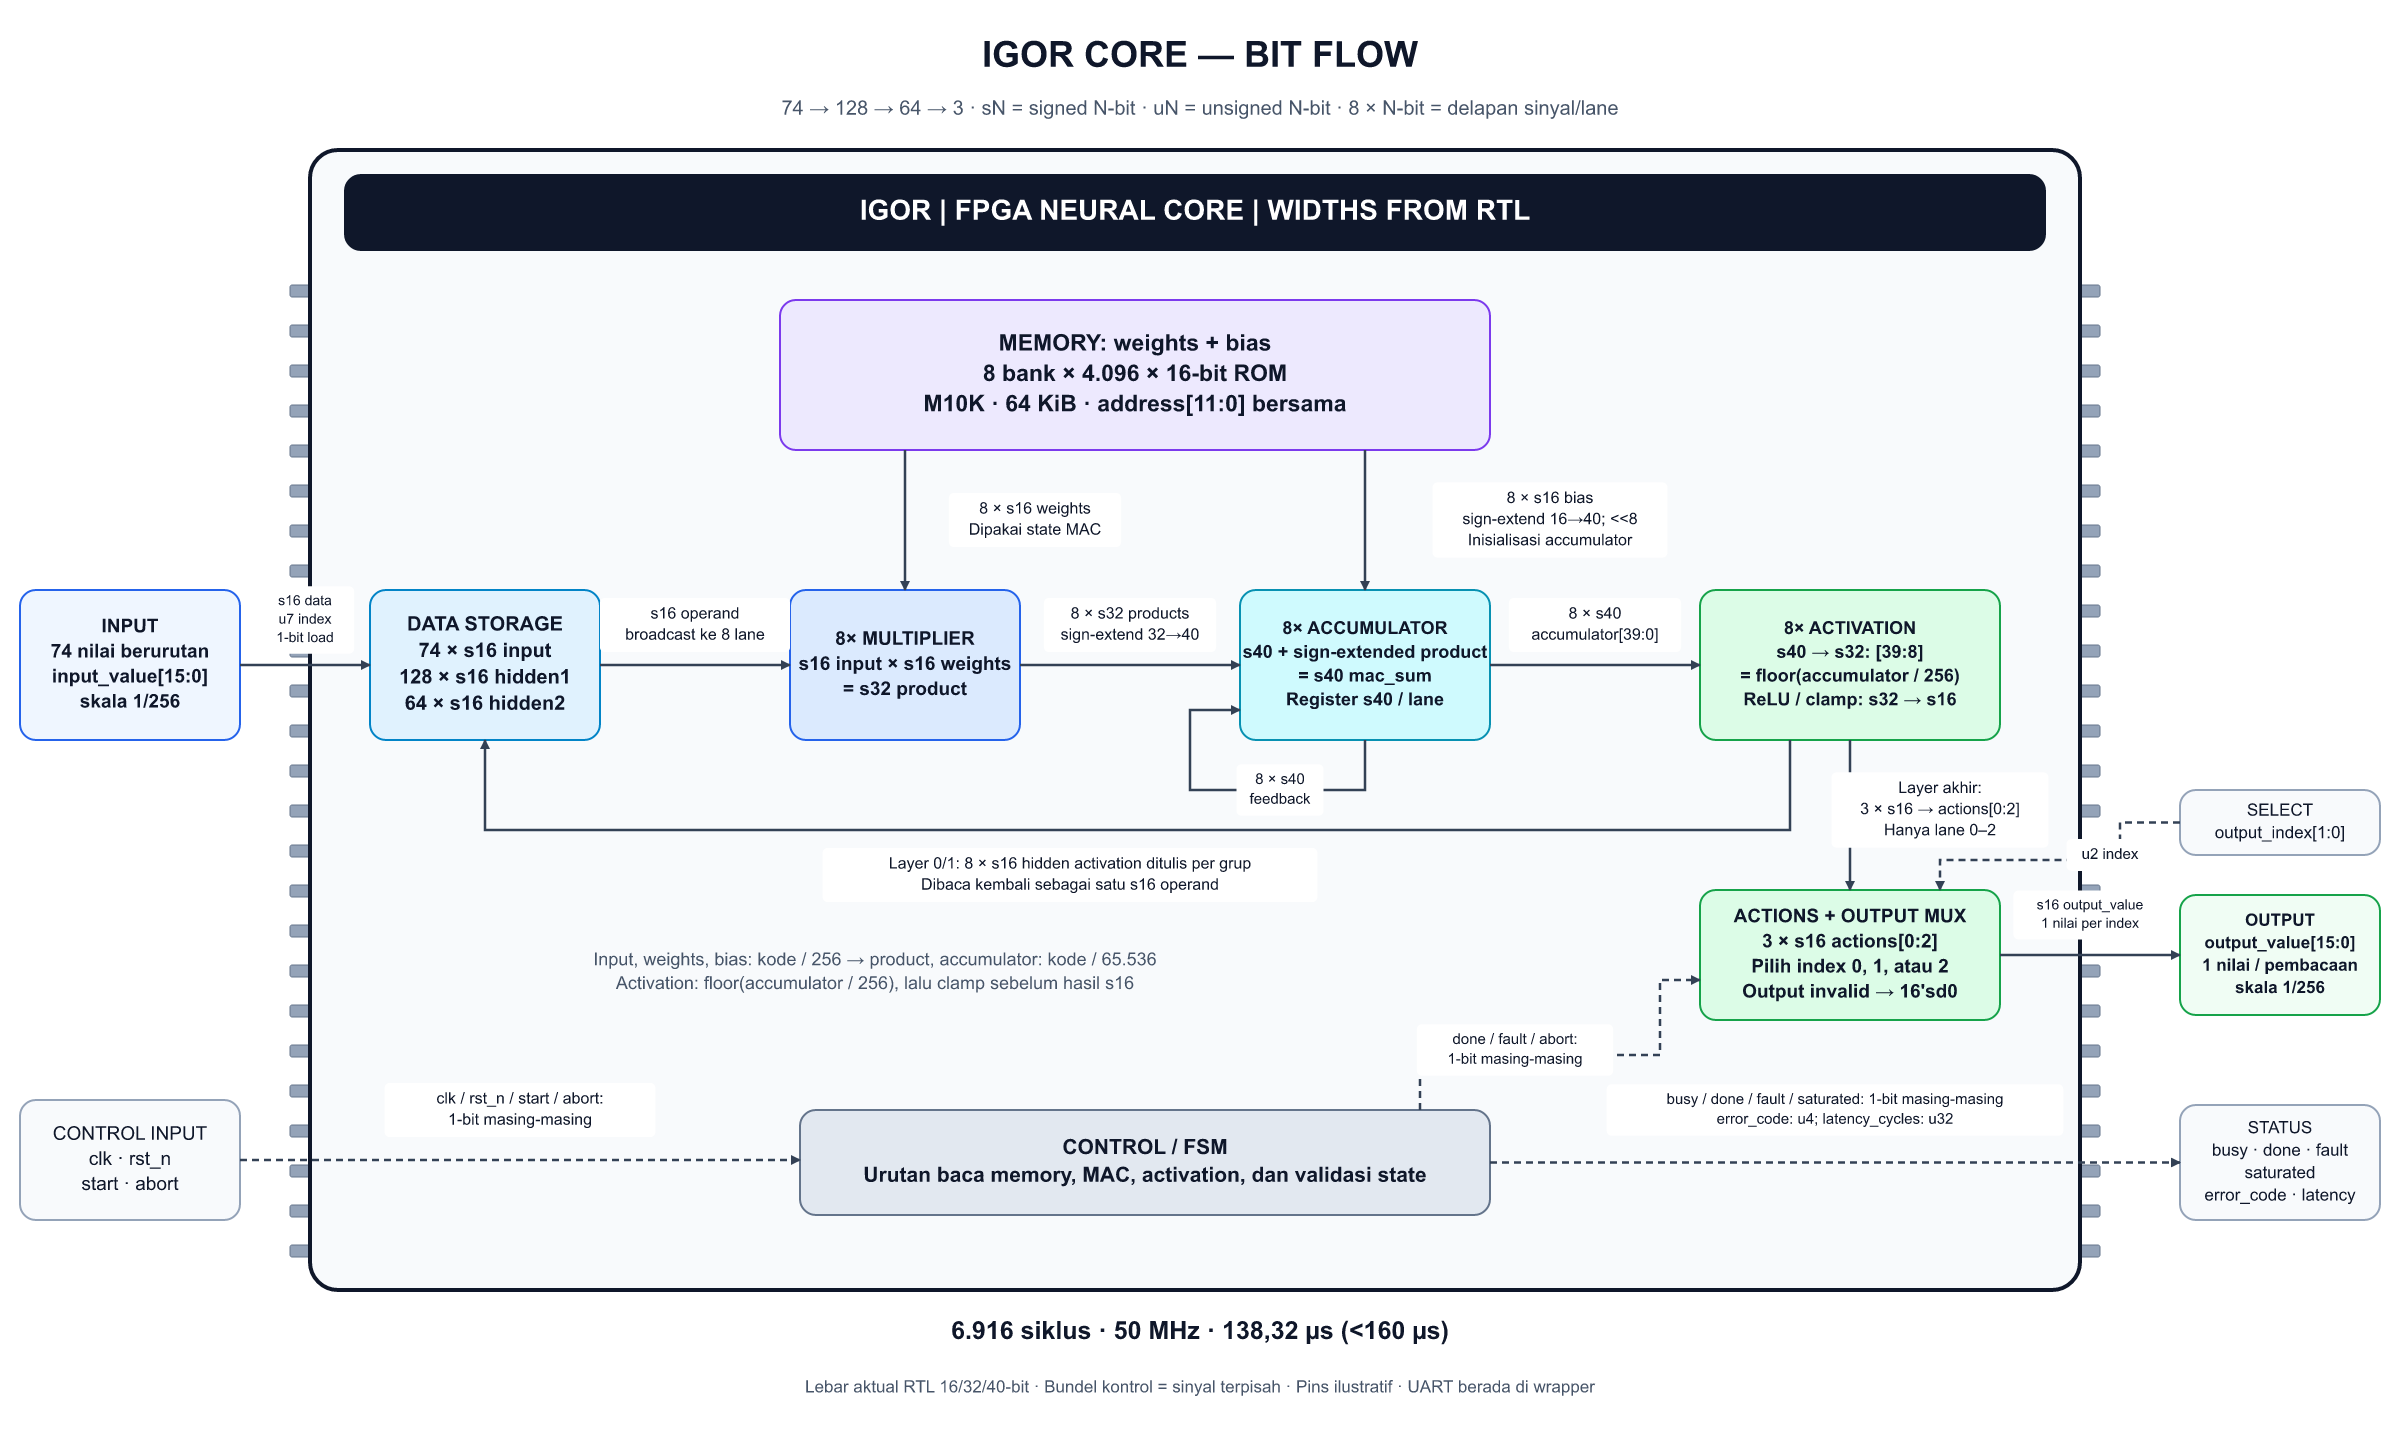
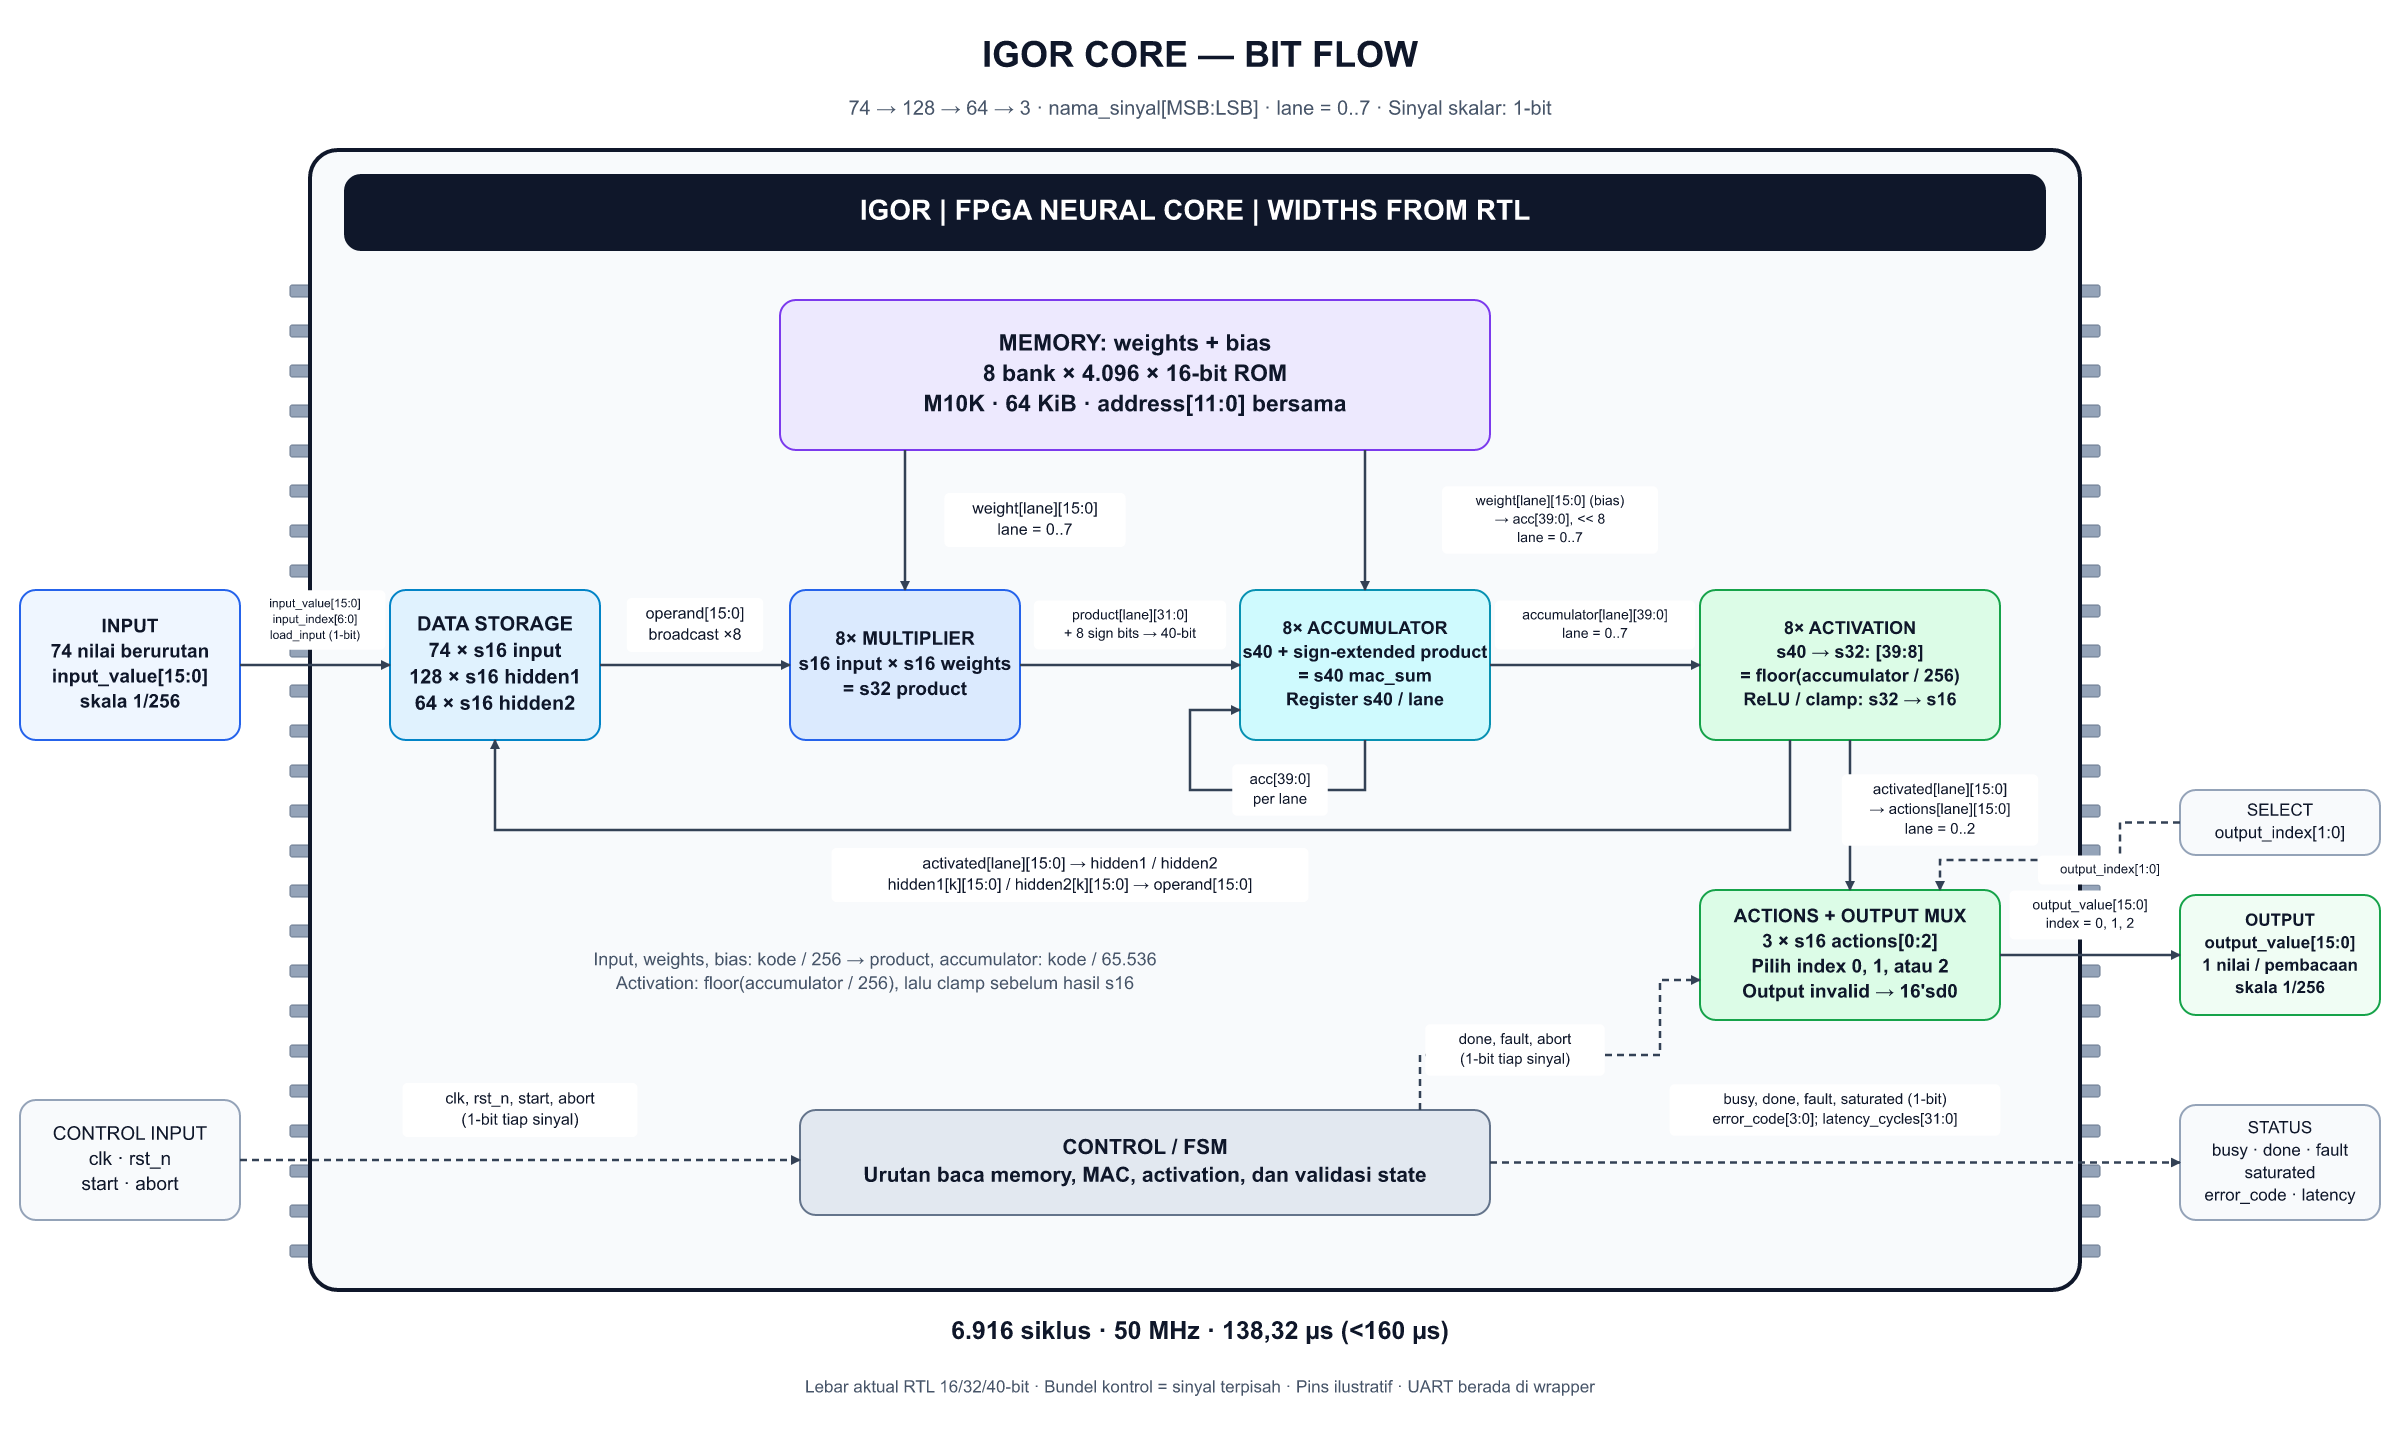
docs: annotate core arrows with exact RTL signal bit ranges

diff --git a/fpga/scripts/render_igor_core_drawio.py b/fpga/scripts/render_igor_core_drawio.py
@@ -86,7 +86,7 @@ def edge(key,source,target,points,exit_xy,entry_xy,caption,label_center,dashed=F
 
 
 label('title',400,25,1600,65,'IGOR CORE — BIT FLOW',36,'#0f172a',True)
-label('subtitle',300,92,1800,35,'74 → 128 → 64 → 3  ·  sN = signed N-bit  ·  uN = unsigned N-bit  ·  8 × N-bit = delapan sinyal/lane',20)
+label('subtitle',300,92,1800,35,'74 → 128 → 64 → 3  ·  nama_sinyal[MSB:LSB]  ·  lane = 0..7  ·  Sinyal skalar: 1-bit',20)
 
 # Decorative package pins, explicitly separate from functional ports.
 for side,x in [('left',290),('right',2080)]:
@@ -96,7 +96,7 @@ box('chip',310,150,1770,1140,fill='#f8fafc',stroke='#0f172a',radius=28,width=4)
 box('chip-header',345,175,1700,75,'IGOR  |  FPGA NEURAL CORE  |  WIDTHS FROM RTL',fill='#0f172a',stroke='#0f172a',size=28,bold=True,text='#ffffff')
 box('memory',780,300,710,150,'MEMORY: weights + bias\n8 bank × 4.096 × 16-bit ROM\nM10K · 64 KiB · address[11:0] bersama',fill='#ede9fe',stroke='#7c3aed',size=23,bold=True)
 box('input',20,590,220,150,'INPUT\n74 nilai berurutan\ninput_value[15:0]\nskala 1/256',fill='#eff6ff',stroke='#2563eb',size=19,bold=True)
-box('storage',370,590,230,150,'DATA STORAGE\n74 × s16 input\n128 × s16 hidden1\n64 × s16 hidden2',fill='#e0f2fe',stroke='#0284c7',size=20,bold=True)
+box('storage',390,590,210,150,'DATA STORAGE\n74 × s16 input\n128 × s16 hidden1\n64 × s16 hidden2',fill='#e0f2fe',stroke='#0284c7',size=20,bold=True)
 box('multiply',790,590,230,150,'8× MULTIPLIER\ns16 input × s16 weights\n= s32 product',fill='#dbeafe',stroke='#2563eb',size=19,bold=True)
 box('accumulator',1240,590,250,150,'8× ACCUMULATOR\ns40 + sign-extended product\n= s40 mac_sum\nRegister s40 / lane',fill='#cffafe',stroke='#0891b2',size=18,bold=True)
 box('activation',1700,590,300,150,'8× ACTIVATION\ns40 → s32: [39:8]\n= floor(accumulator / 256)\nReLU / clamp: s32 → s16',fill='#dcfce7',stroke='#16a34a',size=18,bold=True)
@@ -107,20 +107,20 @@ box('control',800,1110,690,105,'CONTROL / FSM\nUrutan baca memory, MAC, activati
 box('control-input',20,1100,220,120,'CONTROL INPUT\nclk · rst_n\nstart · abort',fill='#f8fafc',stroke='#94a3b8',size=19)
 box('status',2180,1105,200,115,'STATUS\nbusy · done · fault\nsaturated\nerror_code · latency',fill='#f8fafc',stroke='#94a3b8',size=17)
 
-edge('input-data','input','storage',[(240,665),(370,665)],(1,.5),(0,.5),'s16 data\nu7 index\n1-bit load',(305,620),size=14)
-edge('operand','storage','multiply',[(600,665),(790,665)],(1,.5),(0,.5),'s16 operand\nbroadcast ke 8 lane',(695,625))
-edge('weights','memory','multiply',[(905,450),(905,590)],(125/710,1),(.5,0),'8 × s16 weights\nDipakai state MAC',(1035,520))
-edge('bias','memory','accumulator',[(1365,450),(1365,590)],(585/710,1),(.5,0),'8 × s16 bias\nsign-extend 16→40; <<8\nInisialisasi accumulator',(1550,520))
-edge('products','multiply','accumulator',[(1020,665),(1240,665)],(1,.5),(0,.5),'8 × s32 products\nsign-extend 32→40',(1130,625))
-edge('sum','accumulator','activation',[(1490,665),(1700,665)],(1,.5),(0,.5),'8 × s40\naccumulator[39:0]',(1595,625))
-edge('acc-feedback','accumulator','accumulator',[(1365,740),(1365,790),(1190,790),(1190,710),(1240,710)],(.5,1),(0,.8),'8 × s40\nfeedback',(1280,790),size=15)
-edge('final-actions','activation','actions',[(1850,740),(1850,890)],(.5,1),(.5,0),'Layer akhir:\n3 × s16 → actions[0:2]\nHanya lane 0–2',(1940,810))
-edge('result','actions','output',[(2000,955),(2180,955)],(1,.5),(0,.5),'s16 output_value\n1 nilai per index',(2090,915),size=14)
-edge('hidden-feedback','activation','storage',[(1790,740),(1790,830),(485,830),(485,740)],(.3,1),(.5,1),'Layer 0/1: 8 × s16 hidden activation ditulis per grup\nDibaca kembali sebagai satu s16 operand',(1070,875))
-edge('select-index','select','actions',[(2180,822.5),(2120,822.5),(2120,860),(1940,860),(1940,890)],(0,.5),(.8,0),'u2 index',(2110,855),True,size=15)
-edge('control-in','control-input','control',[(240,1160),(800,1160)],(1,.5),(0,50/105),'clk / rst_n / start / abort:\n1-bit masing-masing',(520,1110),True)
-edge('control-out','control','status',[(1490,1162.5),(2180,1162.5)],(1,.5),(0,.5),'busy / done / fault / saturated: 1-bit masing-masing\nerror_code: u4; latency_cycles: u32',(1835,1110),True,size=15)
-edge('output-valid','control','actions',[(1420,1110),(1420,1055),(1660,1055),(1660,980),(1700,980)],(620/690,0),(0,90/130),'done / fault / abort:\n1-bit masing-masing',(1515,1050),True,size=15)
+edge('input-data','input','storage',[(240,665),(390,665)],(1,.5),(0,.5),'input_value[15:0]\ninput_index[6:0]\nload_input (1-bit)',(315,620),size=12)
+edge('operand','storage','multiply',[(600,665),(790,665)],(1,.5),(0,.5),'operand[15:0]\nbroadcast ×8',(695,625))
+edge('weights','memory','multiply',[(905,450),(905,590)],(125/710,1),(.5,0),'weight[lane][15:0]\nlane = 0..7',(1035,520))
+edge('bias','memory','accumulator',[(1365,450),(1365,590)],(585/710,1),(.5,0),'weight[lane][15:0] (bias)\n→ acc[39:0], << 8\nlane = 0..7',(1550,520),size=14)
+edge('products','multiply','accumulator',[(1020,665),(1240,665)],(1,.5),(0,.5),'product[lane][31:0]\n+ 8 sign bits → 40-bit',(1130,625),size=14)
+edge('sum','accumulator','activation',[(1490,665),(1700,665)],(1,.5),(0,.5),'accumulator[lane][39:0]\nlane = 0..7',(1595,625),size=14)
+edge('acc-feedback','accumulator','accumulator',[(1365,740),(1365,790),(1190,790),(1190,710),(1240,710)],(.5,1),(0,.8),'acc[39:0]\nper lane',(1280,790),size=15)
+edge('final-actions','activation','actions',[(1850,740),(1850,890)],(.5,1),(.5,0),'activated[lane][15:0]\n→ actions[lane][15:0]\nlane = 0..2',(1940,810),size=15)
+edge('result','actions','output',[(2000,955),(2180,955)],(1,.5),(0,.5),'output_value[15:0]\nindex = 0, 1, 2',(2090,915),size=14)
+edge('hidden-feedback','activation','storage',[(1790,740),(1790,830),(495,830),(495,740)],(.3,1),(.5,1),'activated[lane][15:0] → hidden1 / hidden2\nhidden1[k][15:0] / hidden2[k][15:0] → operand[15:0]',(1070,875))
+edge('select-index','select','actions',[(2180,822.5),(2120,822.5),(2120,860),(1940,860),(1940,890)],(0,.5),(.8,0),'output_index[1:0]',(2110,870),True,size=13)
+edge('control-in','control-input','control',[(240,1160),(800,1160)],(1,.5),(0,50/105),'clk, rst_n, start, abort\n(1-bit tiap sinyal)',(520,1110),True)
+edge('control-out','control','status',[(1490,1162.5),(2180,1162.5)],(1,.5),(0,.5),'busy, done, fault, saturated (1-bit)\nerror_code[3:0]; latency_cycles[31:0]',(1835,1110),True,size=15)
+edge('output-valid','control','actions',[(1420,1110),(1420,1055),(1660,1055),(1660,980),(1700,980)],(620/690,0),(0,90/130),'done, fault, abort\n(1-bit tiap sinyal)',(1515,1050),True,size=15)
 label('scales',350,945,1050,55,'Input, weights, bias: kode / 256  →  product, accumulator: kode / 65.536\nActivation: floor(accumulator / 256), lalu clamp sebelum hasil s16',18)
 label('timing',400,1310,1600,45,'6.916 siklus  ·  50 MHz  ·  138,32 µs  (<160 µs)',25,'#0f172a',True)
 label('scope',300,1370,1800,36,'Lebar aktual RTL 16/32/40-bit · Bundel kontrol = sinyal terpisah · Pins ilustratif · UART berada di wrapper',17)

diff --git a/fpga/docs/IGOR_CORE_DIAGRAM.md b/fpga/docs/IGOR_CORE_DIAGRAM.md
@@ -15,6 +15,16 @@ Control/FSM mengatur urutan operasi dan menyediakan status.
 
 ## Lebar bit pada setiap panah
 
+Label panah memakai **nama sinyal RTL dan rentang bit**, misalnya
+`operand[15:0]`, `product[lane][31:0]`, `accumulator[lane][39:0]`, dan
+`output_value[15:0]`. `lane` menunjukkan indeks 0 sampai 7 pada array RTL;
+pada jalur actions hanya lane 0 sampai 2 yang digunakan. `acc[39:0]` adalah
+register lokal setiap lane; `accumulator[lane][39:0]` adalah alias keluarannya.
+Bias memakai sinyal `weight[lane][15:0]` pada state `BIAS_TAKE`, sehingga
+diagram tidak memperkenalkan sinyal RTL `bias` yang sebenarnya tidak ada.
+Sinyal skalar seperti `clk`, `done`, dan `fault` ditulis dengan keterangan
+**1-bit**, sesuai deklarasinya tanpa rentang bus.
+
 Label **sN** berarti signed N-bit; **uN** berarti unsigned N-bit.
 `8 × s16` berarti delapan sinyal 16-bit pada delapan lane, bukan satu port
 packed bernama 128-bit. Bundel kontrol pada panah putus-putus adalah kumpulan
@@ -22,20 +32,20 @@ sinyal terpisah dengan lebar masing-masing.
 
 | Panah | Lebar aktual dan perubahan data |
 |---|---|
-| Input -> data storage | `input_value`: s16; `input_index`: u7; `load_input`: 1-bit. Sebanyak 74 nilai dimuat berurutan, bukan bus input 74 × 16-bit paralel. |
-| Data storage -> multiplier | Satu `operand`: s16, dibroadcast ke delapan lane. |
-| Memory -> multiplier | Delapan `weight[lane]`: masing-masing s16; ROM dibaca sinkron dan data dipakai pada state MAC. |
+| Input -> data storage | `input_value[15:0]`: s16; `input_index[6:0]`: u7; `load_input`: 1-bit. Sebanyak 74 nilai dimuat berurutan, bukan bus input 74 × 16-bit paralel. |
+| Data storage -> multiplier | Satu `operand[15:0]`: s16, dibroadcast ke delapan lane. |
+| Memory -> multiplier | Delapan `weight[lane][15:0]`: masing-masing s16; ROM dibaca sinkron dan data dipakai pada state MAC. |
 | Memory -> accumulator | Delapan bias: masing-masing s16. Nilai di-sign-extend dan digeser kiri delapan bit dalam representasi s40 saat `BIAS_TAKE`. |
-| Multiplier -> accumulator | Delapan product: masing-masing s32 dari perkalian s16 × s16, lalu di-sign-extend ke s40 sebelum penjumlahan. |
-| Feedback accumulator | Delapan nilai accumulator s40 disimpan dan dipakai kembali untuk MAC berikutnya. Penjumlahan menghasilkan `mac_sum` s40. |
-| Accumulator -> activation | Delapan accumulator: masing-masing s40. Di dalam activation, `[39:8]` menjadi s32 `scaled`; ReLU/clamp menghasilkan s16. |
+| Multiplier -> accumulator | `product[lane][31:0]`: s32 dari perkalian s16 × s16, lalu di-sign-extend ke s40 sebelum penjumlahan. |
+| Feedback accumulator | Register `acc[39:0]` per lane disimpan dan dipakai kembali untuk MAC berikutnya. Penjumlahan menghasilkan `mac_sum[lane][39:0]`. |
+| Accumulator -> activation | `accumulator[lane][39:0]`: s40. Di dalam activation, `[39:8]` menjadi `scaled[31:0]`; ReLU/clamp menghasilkan `activated[lane][15:0]`. |
 | Activation -> data storage | Pada layer 0/1, delapan hidden activation s16 ditulis per grup, satu per bank/lane. Pembacaan berikutnya memilih satu s16 sebagai operand. |
 | Activation -> actions | Pada layer akhir, hanya lane 0–2 disalin ke `actions[0:2]`, masing-masing s16. |
-| Select -> output mux | `output_index`: u2 memilih salah satu dari tiga actions. |
-| Actions/mux -> output | `output_value`: satu s16 untuk index yang dipilih. Tiga register total 48 bit penyimpanan, tetapi port output tetap 16 bit. |
+| Select -> output mux | `output_index[1:0]`: u2 memilih salah satu dari tiga actions. |
+| Actions/mux -> output | `output_value[15:0]`: satu s16 untuk index yang dipilih. Tiga register total 48 bit penyimpanan, tetapi port output tetap 16 bit. |
 | Control input -> control | `clk`, `rst_n`, `start`, `abort`: masing-masing 1-bit. |
 | Control/validity -> output gating | `done`, `fault`, `abort`: masing-masing 1-bit; output nol jika tidak valid. `abort` berasal dari input core, tidak dihasilkan FSM. |
-| Control -> status | `busy`, `done`, `fault`, `saturated`: masing-masing 1-bit; `error_code`: u4; `latency_cycles`: u32. |
+| Control -> status | `busy`, `done`, `fault`, `saturated`: masing-masing 1-bit; `error_code[3:0]`: u4; `latency_cycles[31:0]`: u32. |
 
 ## Pergeseran dan sign-extension yang benar
 
